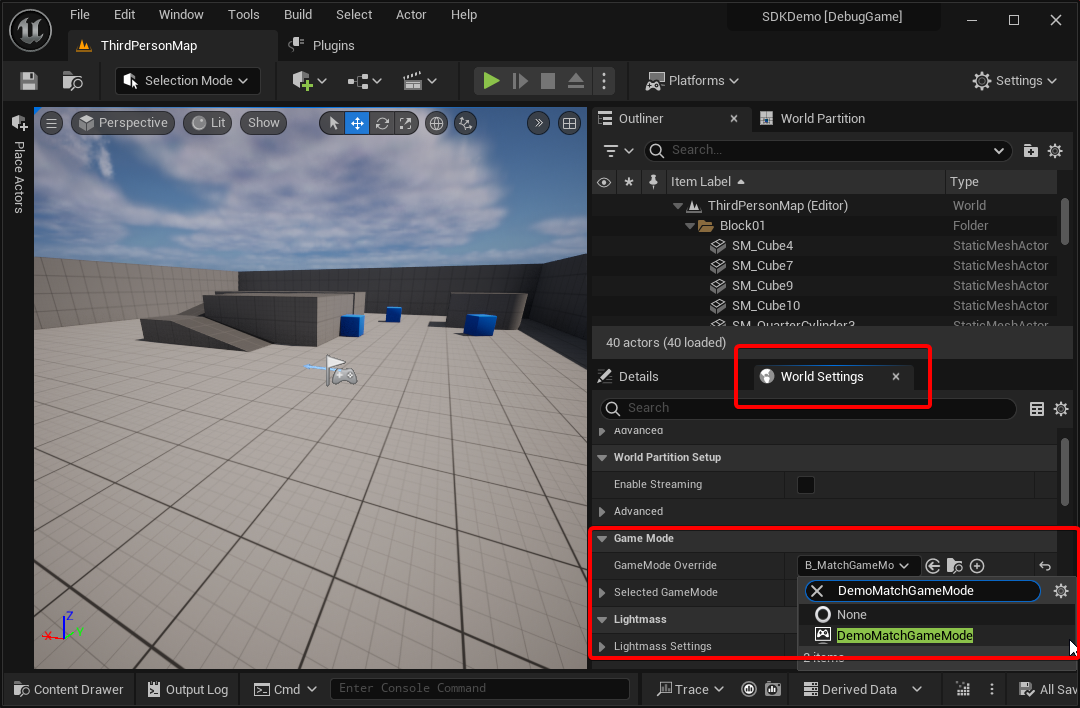
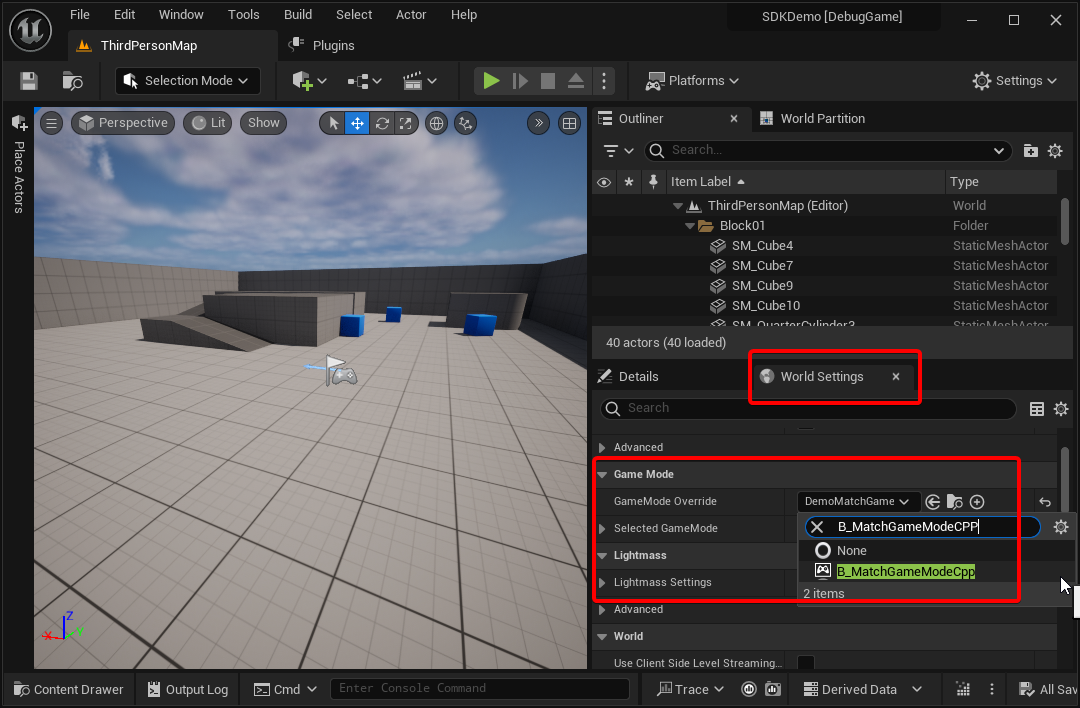
fix a crash and add a BP child of the Cpp match game mode for a mannequin

diff --git a/SDKDemo/Source/SDKDemo/LobbyExample/DemoLobbyWidget.cpp b/SDKDemo/Source/SDKDemo/LobbyExample/DemoLobbyWidget.cpp
@@ -115,8 +115,7 @@ void UDemoLobbyWidget::OnError(FString InErrorMessage)
 
 	LobbyWidget->SetErrorMessage(InErrorMessage);
 
-	FTimerHandle TimerHandle;
-	GetWorld()->GetTimerManager().SetTimer(TimerHandle, [&]()
+	GetWorld()->GetTimerManager().SetTimer(ErrorTimerHandle, [&]()
 	{
 		if (LobbyWidget.IsValid())
 		{
@@ -179,8 +178,7 @@ void UDemoLobbyWidget::StartPings()
 				UpdateSelectedRegionPing();
 
 				// Ping again in 20 seconds
-				FTimerHandle TimerHandle;
-				GetWorld()->GetTimerManager().SetTimer(TimerHandle, [&]()
+				GetWorld()->GetTimerManager().SetTimer(PingTimerHandle, [&]()
 				{
 					StartPings();
 				}, 20.0f, false);
@@ -280,6 +278,9 @@ void UDemoLobbyWidget::CreateLobby()
 				}
 			}
 
+			GetWorld()->GetTimerManager().ClearTimer(ErrorTimerHandle);
+			GetWorld()->GetTimerManager().ClearTimer(PingTimerHandle);
+
 			FString SerializedLobbyConfig = UDemoRoomConfigFunctionLibrary::SerializeRoomConfigToString(LobbyConfig);
 			HathoraLobby->CreateAndJoinLobby(
 				bCreatePublicLobby ? EHathoraLobbyVisibility::Public : EHathoraLobbyVisibility::Private,
@@ -304,6 +305,9 @@ void UDemoLobbyWidget::JoinLobby()
 		}
 		else
 		{
+			GetWorld()->GetTimerManager().ClearTimer(ErrorTimerHandle);
+			GetWorld()->GetTimerManager().ClearTimer(PingTimerHandle);
+
 			HathoraLobby->JoinLobbyWithShortCode(RoomCode);
 
 			LobbyWidget->SetJoiningLobby(true);

diff --git a/SDKDemo/Source/SDKDemo/LobbyExample/DemoLobbyWidget.h b/SDKDemo/Source/SDKDemo/LobbyExample/DemoLobbyWidget.h
@@ -40,6 +40,9 @@ private:
 		EHathoraCloudRegion Region
 	);
 
+	FTimerHandle ErrorTimerHandle;
+	FTimerHandle PingTimerHandle;
+
 	int32 NumPublicLobbies = 0;
 	TMap<FString, int32> Pings;
 	void StartPings();

diff --git a/README.md b/README.md
@@ -106,7 +106,7 @@ By default, this sample project uses the Blueprint example, but you can switch t
 
 ![Change the menu level game mode for C++ example](./Images/DemoGameModeMenuCpp.png)
 
-2. In the level `Content/ThirdPerson/Maps/ThirdPersonMap`, change the **GameMode Override** option in the **World Settings** to `DemoLobbyGameMode`.
+2. In the level `Content/ThirdPerson/Maps/ThirdPersonMap`, change the **GameMode Override** option in the **World Settings** to `B_MatchGameModeCpp`.
 
 ![Change the match level game mode for C++ example](./Images/DemoGameModeMatchCpp.png)
 
